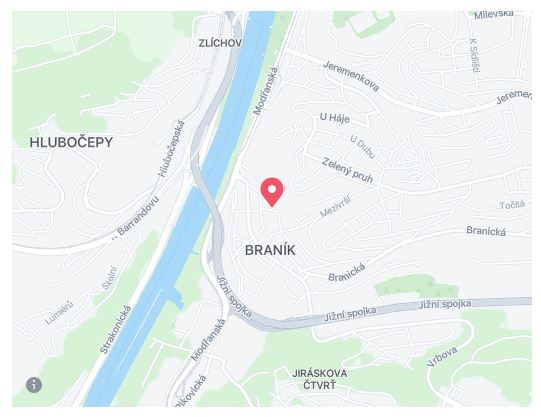
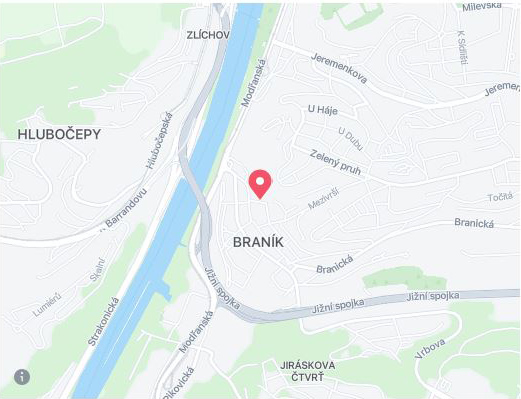
commit 13 přidaní odkazu

diff --git a/kontakt.html b/kontakt.html
@@ -60,23 +60,33 @@ title: Kontakt
 
         <tr class="kontakni-informace__ikona-soc-site">
           <td colspan="2">
-            <img
-              class="kontakni-informace__ikona ikona__fb"
-              src="/images/fb-modra.svg"
-              alt="ikona fb"
-            />
-            <img
-              class="kontakni-informace__ikona ikona__insta"
-              src="/images/insta-modra.svg"
-              alt="ikona insta"
-            />
+            <a href="https://www.facebook.com/MontessoriElipsa" target="_blank">
+              <img
+                class="kontakni-informace__ikona ikona__fb"
+                src="/images/fb-modra.svg"
+                alt="ikona fb"
+            /></a>
+
+            <a
+              href="https://www.instagram.com/explore/locations/484083702345013/montessori-klub-elipsa/"
+              target="_blank"
+            >
+              <img
+                class="kontakni-informace__ikona ikona__insta"
+                src="/images/insta-modra.svg"
+                alt="ikona insta"
+            /></a>
           </td>
         </tr>
       </table>
     </div>
   </article>
 
-  <img class="kontakt__mapa" src="/images/mapa.JPG" alt="mapa" />
+  <a
+    href="https://www.google.com/maps/place/%C5%A0koln%C3%AD+195%2F3,+147+00+Praha+4-Bran%C3%ADk/@50.0381475,14.4103077,17z/data=!3m1!4b1!4m6!3m5!1s0x470b941a3ab7c34d:0x16031959ce68fd83!8m2!3d50.0381475!4d14.412888!16s%2Fg%2F11c28sx8v5?entry=ttu"
+    target="_blank"
+    ><img class="kontakt__mapa" src="/images/mapa.JPG" alt="mapa"
+  /></a>
 </section>
 
 <div class="druha-polovina-stranky">

diff --git a/scss/_kontakt.scss b/scss/_kontakt.scss
@@ -28,6 +28,14 @@
   margin: auto;
   max-width: 100%;
 }
+
+.kontakt__mapa:active,
+.kontakt__mapa:focus,
+.kontakt__mapa:hover {
+  // border: 1px solid desing.$c-secondary;
+  box-shadow: 4px 4px 4px rgba(0, 0, 0, 0.1);
+}
+
 @media screen and (min-width: 640px) {
   .kontakt__uvod {
     display: grid;

diff --git a/css/style.css b/css/style.css
@@ -632,6 +632,12 @@ header {
   max-width: 100%;
 }
 
+.kontakt__mapa:active,
+.kontakt__mapa:focus,
+.kontakt__mapa:hover {
+  box-shadow: 4px 4px 4px rgba(0, 0, 0, 0.1);
+}
+
 @media screen and (min-width: 640px) {
   .kontakt__uvod {
     display: grid;
